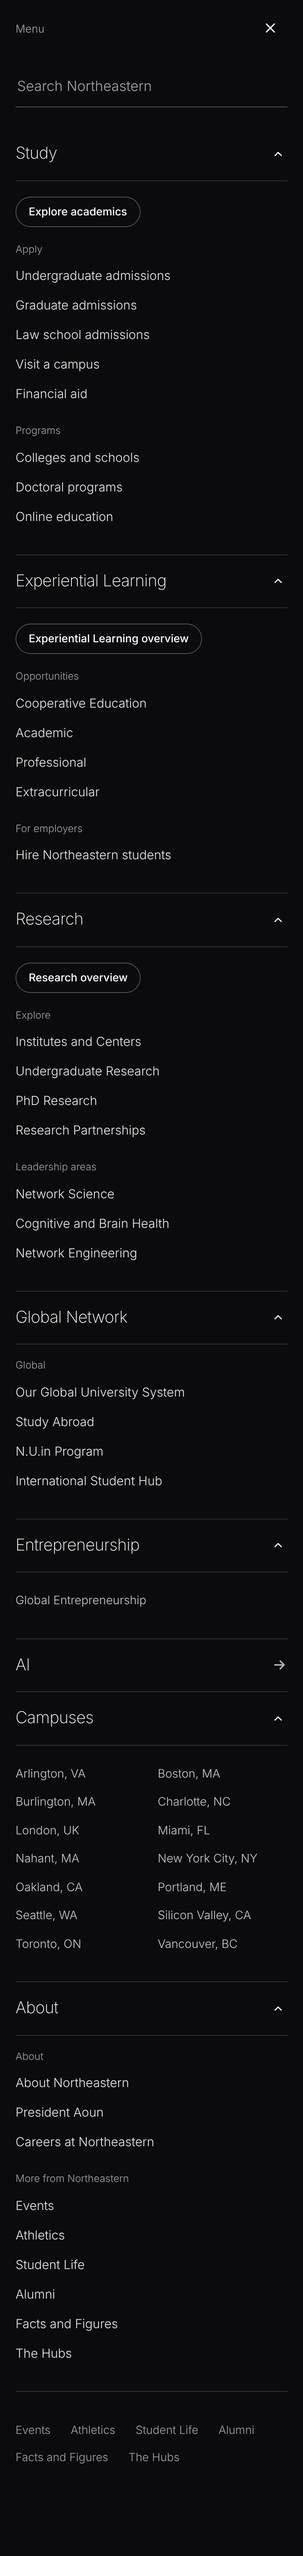
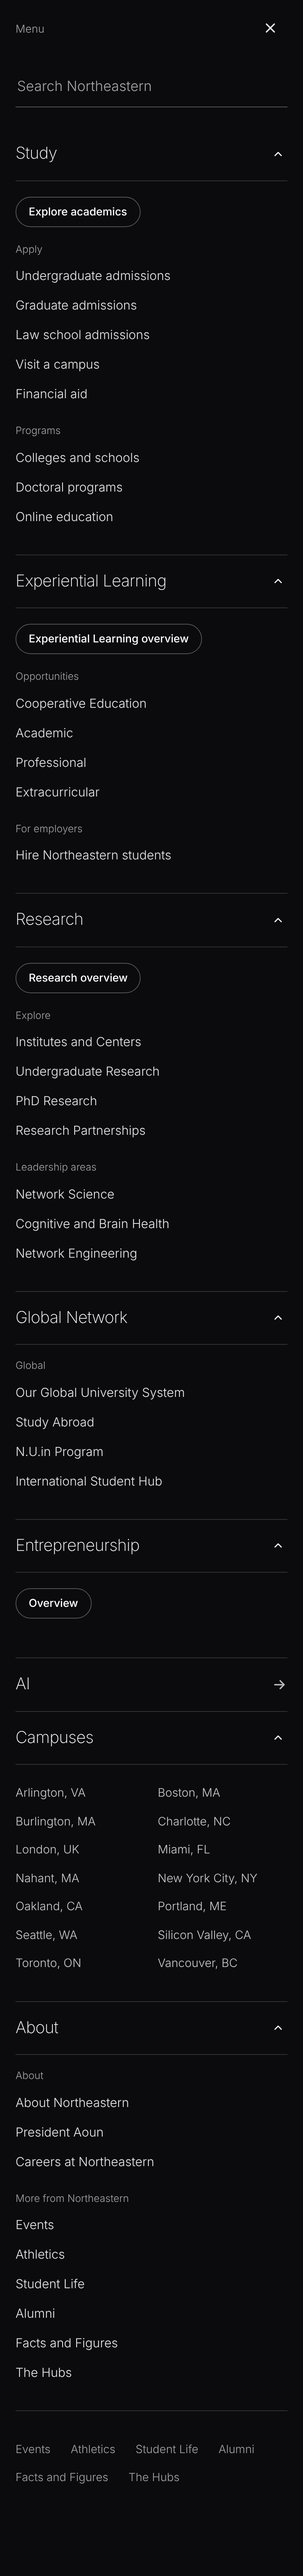
Concept 22: Entrepreneurship panel titled Global Entrepreneurship with an NGN story; hero features rotate every 10s on concepts 14 and 22 (?rotate=12 to preview); compare page updated
Claude-Session: https://claude.ai/code/session_01NmDkJiMHENnTGWnZnRnkmx

diff --git a/concept-22/index.html b/concept-22/index.html
@@ -1496,10 +1496,8 @@
       <div class="mp-col mp-featcol"><div class="mp-h">From the newsroom</div><a class="mp-feat" href="https://news.northeastern.edu/2023/11/27/dialogue-of-civilizations-geneva-anniversary/"><img src="https://news.northeastern.edu/wp-content/uploads/2023/11/Dialogue-of-Civilization_1400.jpg" alt="" loading="lazy"><span class="ft">How global negotiation really works</span><span class="fl">Read on NGN<svg viewBox="0 0 16 16" width="14" height="14" aria-hidden="true" style="vertical-align:-2px;margin-left:6px"><path d="M3 8h9M8.5 4l4 4-4 4" fill="none" stroke="currentColor" stroke-width="1.5" stroke-linecap="round" stroke-linejoin="round"/></svg></span></a></div>
   </div></div>
   <div class="mpanel" id="mp-ent" hidden><div class="wrap mp-in">
-      <div class="mp-lead"><div class="mp-title">Entrepreneurship</div><p>Start something, anywhere.</p></div>
-      <div class="mp-col"><div class="mp-h">Explore</div><div class="mp-links">
-        <a href="https://entrepreneurship.northeastern.edu/">Global Entrepreneurship</a>
-      </div></div>
+      <div class="mp-lead"><div class="mp-title">Global Entrepreneurship</div><p>Start something, anywhere.</p><a class="storylink" href="https://entrepreneurship.northeastern.edu/">Overview</a></div>
+      <div class="mp-col mp-featcol"><div class="mp-h">From the newsroom</div><a class="mp-feat" href="https://news.northeastern.edu/2026/06/05/startup-pitch-competition-london-summit/"><img src="https://news.northeastern.edu/wp-content/uploads/2026/06/060426_CV_GLS_day1_048.jpg" alt="" loading="lazy"><span class="ft">Founders pitch startups in Dragons’ Den-style event for funding</span><span class="fl">Read on NGN<svg viewBox="0 0 16 16" width="14" height="14" aria-hidden="true" style="vertical-align:-2px;margin-left:6px"><path d="M3 8h9M8.5 4l4 4-4 4" fill="none" stroke="currentColor" stroke-width="1.5" stroke-linecap="round" stroke-linejoin="round"/></svg></span></a></div>
   </div></div>
   <div class="mpanel" id="mp-more" hidden><div class="wrap mp-in">
       <div class="mp-col"><div class="mp-h">About</div><div class="mp-links">
@@ -3087,7 +3085,7 @@ if (GV && GVS.includes(GV)) {
 }
 /* phone menu: each section mirrors its desktop dropdown (overview pills, then labeled link groups) */
 {
-  const MAP = { "tsub-0": "mp-admissions", "tsub-2": "mp-experiential", "tsub-3": "mp-research", "tsub-4": "mp-global", "tsub-6": "mp-more" };
+  const MAP = { "tsub-0": "mp-admissions", "tsub-2": "mp-experiential", "tsub-3": "mp-research", "tsub-4": "mp-global", "tsub-ent": "mp-ent", "tsub-6": "mp-more" };
   const ah = a => `<a href="${a.getAttribute("href")}">${a.textContent.trim()}</a>`;
   for (const [sub, panel] of Object.entries(MAP)) {
     const sEl = document.getElementById(sub), pEl = document.getElementById(panel);
@@ -3180,8 +3178,8 @@ function selectF(i) {
   }
 }
 lnBtns.forEach(b => b.addEventListener("click", () => selectF(+b.dataset.i)));
-/* auto-rotate every 12s; the loader fills per frame on the active card */
-const ROTATE_MS = 12000;
+/* auto-rotate every 10s (?rotate=12 to preview other timings, in seconds); the loader fills per frame on the active card */
+const ROTATE_MS = (+new URLSearchParams(location.search).get("rotate") || 10) * 1000;
 $("#hxShows").addEventListener("pointerenter", () => hoverShows = true);
 $("#hxShows").addEventListener("pointerleave", () => hoverShows = false);
 {

diff --git a/nav-compare/index.html b/nav-compare/index.html
@@ -100,7 +100,8 @@
   </section>
 
   <section id="ent">
-    <div class="sh"><h2>Entrepreneurship</h2><span class="count">Unchanged · 1 link</span></div>
+    <div class="sh"><h2>Entrepreneurship</h2><span class="count">1 link · newsroom card added</span></div>
+    <ul class="notes"><li>The panel is titled “Global Entrepreneurship”; its link becomes the panel’s “Overview” link.</li><li>Added a newsroom story: founders pitching at the London summit.</li></ul>
     <div class="pair">
       <div class="col"><h3>Before · Concept 14</h3><a class="shot" href="shots/c14-mp-ent.png"><img src="shots/c14-mp-ent.png" alt="Concept 14 Entrepreneurship dropdown" loading="lazy"></a></div>
       <div class="col after"><h3>After · Concept 22</h3><a class="shot" href="shots/c22-mp-ent.png"><img src="shots/c22-mp-ent.png" alt="Concept 22 Entrepreneurship dropdown" loading="lazy"></a></div>

diff --git a/concept-14/index.html b/concept-14/index.html
@@ -3200,8 +3200,8 @@ function selectF(i) {
   }
 }
 lnBtns.forEach(b => b.addEventListener("click", () => selectF(+b.dataset.i)));
-/* auto-rotate every 12s; the loader fills per frame on the active card */
-const ROTATE_MS = 12000;
+/* auto-rotate every 10s (?rotate=12 to preview other timings, in seconds); the loader fills per frame on the active card */
+const ROTATE_MS = (+new URLSearchParams(location.search).get("rotate") || 10) * 1000;
 $("#hxShows").addEventListener("pointerenter", () => hoverShows = true);
 $("#hxShows").addEventListener("pointerleave", () => hoverShows = false);
 {
